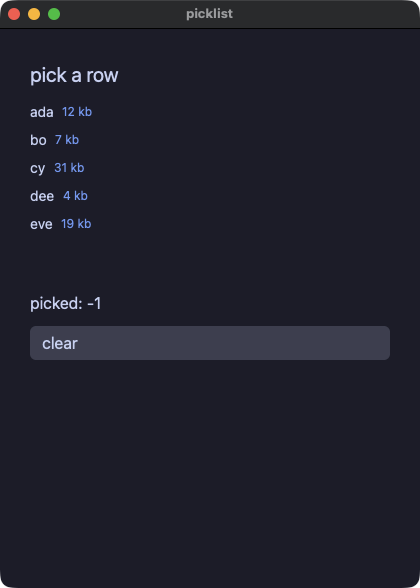
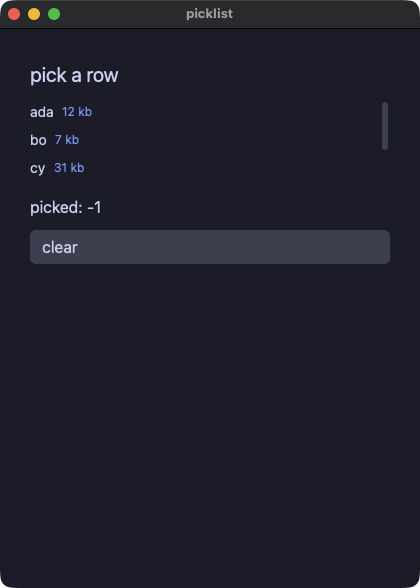
feat(list): show me this row
A scroll position is not the app's. Nothing in the built tree carries
one — the offset lives in the engine, keyed by element path, where a
Select's open panel lives — so a headless run has nothing to move, and
a scrolling step would be driving state no dump can see. Making the
position the app's instead would mean every viewport binds a number
and writes it back on every wheel tick, which is not a contract a
scroll bar has.

What an app does say is "show me this row", and that is a property
rather than a gesture. `scrollTo:` joins the dump when it is set, both
runs are held to it, and the engine obeys it when the number CHANGES:
obeying it every frame would drag the viewport back the moment anyone
scrolled off the row, so the ask is recorded beside the scroll handle
and -1 clears the record.

So the step stays unwritten and the property lands instead. The wheel
is outside the gate with the open panel and the caret — what is not in
the tree is not compared — and what the window does with an ask was
checked by watching a list open with its fifth row in view.

diff --git a/crates/pixie-engine-gpui/src/lib.rs b/crates/pixie-engine-gpui/src/lib.rs
@@ -424,6 +424,12 @@ struct ScrollState {
     drag: Rc<Cell<Option<(f32, f32)>>>,
     /// Pointer inside the thumb's (inflated) hit rect.
     hover: Rc<Cell<bool>>,
+    /// The row `scrollTo:` last asked for, `None` until one is. A
+    /// scroll position belongs to the person scrolling, so the list
+    /// obeys the app when the NUMBER CHANGES and never again: asking
+    /// for row 12 every frame would drag the viewport back the moment
+    /// anyone scrolled off it.
+    asked: Rc<Cell<Option<i64>>>,
 }
 
 /// Scrollbar metrics. cute_ui paints a 4 px thumb inset 2 px with a
@@ -727,6 +733,26 @@ fn style_box<E: gpui::Styled>(
 /// Create-or-reuse the scroll state for the viewport at `pass.path` and
 /// mark that path live for this pass's GC — `Element::TextField`'s
 /// editor lookup, one map over.
+/// Has the app just asked for a row this viewport has not obeyed yet?
+///
+/// `scrollTo:` is a sentence, not a position: the app says "show me
+/// this row" and the engine does it once. Answering true also RECORDS
+/// the ask, so the next frame — and every frame after it, while the
+/// number stands — leaves the viewport where the person scrolling put
+/// it. Putting the prop back to -1 clears the record, so the same row
+/// can be asked for again.
+fn take_ask(st: &ScrollState, scroll_to: i64) -> bool {
+    if scroll_to < 0 {
+        st.asked.set(None);
+        return false;
+    }
+    if st.asked.get() == Some(scroll_to) {
+        return false;
+    }
+    st.asked.set(Some(scroll_to));
+    true
+}
+
 fn scroll_state(
     scrolls: &mut HashMap<Vec<usize>, ScrollState>,
     pass: &mut RenderPass,
@@ -2421,6 +2447,7 @@ fn render_el_in<C: Component>(
             grow,
             selected,
             on_select,
+            scroll_to,
             children,
             lazy,
         } => {
@@ -2523,6 +2550,11 @@ fn render_el_in<C: Component>(
                 // `track_scroll` is genuinely out of reach.)
                 let ulh = gpui::UniformListScrollHandle::new();
                 ulh.0.borrow_mut().base_handle = st.handle.clone();
+                if take_ask(&st, *scroll_to) {
+                    // Non-strict: a row already in view moves nothing,
+                    // which is what "show me this one" means.
+                    ulh.scroll_to_item(*scroll_to as usize, gpui::ScrollStrategy::Top);
+                }
                 let list = list.track_scroll(&ulh);
                 let mut outer = div().relative();
                 if *grow > 0.0 {
@@ -2581,6 +2613,9 @@ fn render_el_in<C: Component>(
                 pass.next_id += 1;
                 let id = pass.next_id;
                 let st = scroll_state(scrolls, pass);
+                if take_ask(&st, *scroll_to) {
+                    st.handle.scroll_to_item(*scroll_to as usize);
+                }
                 let frame = frame.id(id).overflow_y_scroll().track_scroll(&st.handle);
                 let frame = if *grow > 0.0 {
                     frame.h_full()

diff --git a/crates/pixie-codegen/src/lib.rs b/crates/pixie-codegen/src/lib.rs
@@ -6703,6 +6703,14 @@ fn lower_element_inner(el: &Element, cx: &mut ViewCtx, ind: &str) -> Result<Stri
                 ),
                 None => "None".into(),
             };
+            // "Show me this row": the app's own sentence about a
+            // scroll position it does not otherwise own. `-1i64` asks
+            // for nothing, which is what every list said before the
+            // prop existed.
+            let scroll_to = match element_prop(el, "scrollTo") {
+                Some(v) => lower_view_int(v, cx, "scrollTo")?,
+                None => "-1i64".into(),
+            };
             if virtualized == "true" {
                 if let Some((binding, index, iter, child)) = single_repeater_of(el)? {
                     let lazy = lower_lazy_rows(binding, index, iter, child, cx, ind)?;
@@ -6714,6 +6722,7 @@ fn lower_element_inner(el: &Element, cx: &mut ViewCtx, ind: &str) -> Result<Stri
                          {ind}    grow: {grow},\n\
                          {ind}    selected: {selected},\n\
                          {ind}    on_select: {on_select},\n\
+                         {ind}    scroll_to: {scroll_to},\n\
                          {ind}    children: Vec::new(),\n\
                          {ind}    lazy: Some({lazy}),\n\
                          {ind}}}"
@@ -6722,7 +6731,7 @@ fn lower_element_inner(el: &Element, cx: &mut ViewCtx, ind: &str) -> Result<Stri
             }
             let children = lower_children(el, cx, ind)?;
             Ok(format!(
-                "Element::ListView {{ virtualized: {virtualized}, item_height: {item_height}, height: {height}, grow: {grow}, selected: {selected}, on_select: {on_select}, children: {children}, lazy: None }}"
+                "Element::ListView {{ virtualized: {virtualized}, item_height: {item_height}, height: {height}, grow: {grow}, selected: {selected}, on_select: {on_select}, scroll_to: {scroll_to}, children: {children}, lazy: None }}"
             ))
         }
         "ScrollView" => {
@@ -7412,7 +7421,15 @@ pub fn container_prop_keys(element: &str) -> &'static [&'static str] {
         ],
         "Split" => &["ratio", "vertical", "onChange"],
         "Canvas" => &["width", "height", "scale", "background", "palette"],
-        "ListView" => &["virtualized", "itemHeight", "height", "grow", "selected", "onSelect"],
+        "ListView" => &[
+            "virtualized",
+            "itemHeight",
+            "height",
+            "grow",
+            "selected",
+            "onSelect",
+            "scrollTo",
+        ],
         "ScrollView" => &["height"],
         "Modal" => &["open"],
         "Table" => &[

diff --git a/crates/pixie-interp/src/lib.rs b/crates/pixie-interp/src/lib.rs
@@ -2477,6 +2477,12 @@ fn build_element_inner(
                 None => -1,
             };
             let on_select = prop_of(el, "onSelect").map(|a| make_int_listener(a, env));
+            // The row the app asks to have in view, `-1` for none —
+            // codegen's `scrollTo:` arm, mirrored.
+            let scroll_to = match prop_of(el, "scrollTo") {
+                Some(v) => eval_expr(v, env, scope, w)?.as_int()?,
+                None => -1,
+            };
             if virtualized {
                 if let Some((binding, index, iter, child)) = single_repeater_of(el)? {
                     let lazy = build_lazy_rows(binding, index, iter, child, env, scope, w)?;
@@ -2487,6 +2493,7 @@ fn build_element_inner(
                         grow,
                         selected,
                         on_select,
+                        scroll_to,
                         children: Vec::new(),
                         lazy: Some(lazy),
                     });
@@ -2499,6 +2506,7 @@ fn build_element_inner(
                 grow,
                 selected,
                 on_select,
+                scroll_to,
                 children: build_children(el, env, scope, w)?,
                 lazy: None,
             })
@@ -3229,7 +3237,15 @@ pub fn container_prop_keys(element: &str) -> &'static [&'static str] {
         ],
         "Split" => &["ratio", "vertical", "onChange"],
         "Canvas" => &["width", "height", "scale", "background", "palette"],
-        "ListView" => &["virtualized", "itemHeight", "height", "grow", "selected", "onSelect"],
+        "ListView" => &[
+            "virtualized",
+            "itemHeight",
+            "height",
+            "grow",
+            "selected",
+            "onSelect",
+            "scrollTo",
+        ],
         "ScrollView" => &["height"],
         "Modal" => &["open"],
         "Table" => &[

diff --git a/crates/pixie-kernel/src/lib.rs b/crates/pixie-kernel/src/lib.rs
@@ -1345,6 +1345,12 @@ pub enum Element {
         /// when the app writes the new value back.
         selected: i64,
         on_select: Option<IntListener>,
+        /// The row the app asks to have in view, or `-1` for none.
+        /// A scroll POSITION is the engine's — nothing in this tree
+        /// carries one, so a headless run has none to move — but
+        /// "show me this row" is the app's own sentence, and the
+        /// engine obeys it when the number changes.
+        scroll_to: i64,
         children: Vec<Element>,
         lazy: Option<LazyRows>,
     },
@@ -2586,6 +2592,7 @@ impl Element {
                 height,
                 grow,
                 selected,
+                scroll_to,
                 children,
                 lazy,
                 ..
@@ -2606,6 +2613,7 @@ impl Element {
                     && *height == 0.0
                     && *grow == 0.0
                     && *selected < 0
+                    && *scroll_to < 0
                 {
                     format!("ListView[{}]", inner.join(", "))
                 } else {
@@ -2621,6 +2629,12 @@ impl Element {
                     // is in the dump — and only when a row is.
                     if *selected >= 0 {
                         props.push_str(&format!(", selected={selected}"));
+                    }
+                    // What the app asked to have in view, for the same
+                    // reason: it is a sentence the app said, and the
+                    // only part of scrolling either run can compare.
+                    if *scroll_to >= 0 {
+                        props.push_str(&format!(", scrollTo={scroll_to}"));
                     }
                     format!("ListView({props})[{}]", inner.join(", "))
                 }

diff --git a/crates/pixie-cli/tests/accept.rs b/crates/pixie-cli/tests/accept.rs
@@ -200,7 +200,15 @@ fn container_prop_allowlists_match_across_tiers() {
     // And the table is not vacuous.
     assert_eq!(
         pixie_codegen::container_prop_keys("ListView"),
-        ["virtualized", "itemHeight", "height", "grow", "selected", "onSelect"]
+        [
+            "virtualized",
+            "itemHeight",
+            "height",
+            "grow",
+            "selected",
+            "onSelect",
+            "scrollTo"
+        ]
     );
     // ScrollView takes the viewport height and nothing else; its
     // horizontal twin clips on width, so it takes no props at all.
@@ -468,9 +476,13 @@ fn tiers_agree_on_every_demo() {
             "click:open,input:hi,click:close",
         ),
         ("examples/layers/layers.pix", "click:bump,click:bump"),
+        // A long list, and the one sentence an app can say about
+        // scrolling: `scrollTo:` asks for a row. The position itself
+        // is the person's, so nothing in the tree carries it — what
+        // the dump compares is the ASK, which is the app's own number.
         (
             "examples/biglist/biglist.pix",
-            "click:fill,click:fill,click:clear,click:fill",
+            "click:fill,click:fill,click:bottom,dump,click:top,dump,click:clear,click:fill",
         ),
         // `hover:` puts the pointer on a point; the dump carries the
         // readout, so both tiers are held to one text for it.

diff --git a/crates/yokan/yokan_gate.py b/crates/yokan/yokan_gate.py
@@ -10953,7 +10953,22 @@ class Translator:
                     lines += [f"{pad}  onSelect: {{"] + [f"{pad}    {ln}" for ln in h9[1]] + [f"{pad}  }}"]
                 else:
                     lines.append(f"{pad}  onSelect: {h9}")
-            known = {"virtualized", "item_height", "height", "grow", "selected", "on_select"}
+            # "Show me this row." A scroll position is nobody's to
+            # write down — the app does not own one and neither run
+            # carries one — but the row to bring into view is a number
+            # the app holds, so it reads like `selected=`.
+            if "scroll_to" in kw:
+                v8 = kw["scroll_to"]
+                if isinstance(v8, ast.Constant):
+                    raise Untranslatable(
+                        v8,
+                        "scroll_to= is an int state or store-field read — the list "
+                        "obeys it when the number changes, so a literal would ask once "
+                        "and never again",
+                    )
+                lines.append(f"{pad}  scrollTo: {self._int_binding(v8, 'scroll_to=')}")
+            known = {"virtualized", "item_height", "height", "grow", "selected",
+                     "on_select", "scroll_to"}
             for k in kw:
                 if k not in known:
                     raise Untranslatable(kw[k], f"list_view() does not take `{k}=`")

diff --git a/crates/yokan/src/lib.rs b/crates/yokan/src/lib.rs
@@ -1884,8 +1884,8 @@ element_fn! {
     /// Virtualized rows: `row(i)` is called only for the visible range
     /// (pixie's LazyRows + gpui uniform_list — ~14 calls for 100k rows).
     native_height list_view
-    (count, row, item_height=24.0, height=0.0, virtualized=true, grow=0.0, selected=-1, on_select=None,)
-    [count: usize, row: Py<PyAny>, item_height: f64, height: f64, virtualized: bool, grow: f64, selected: i64, on_select: Option<Py<PyAny>>,]
+    (count, row, item_height=24.0, height=0.0, virtualized=true, grow=0.0, selected=-1, on_select=None, scroll_to=-1,)
+    [count: usize, row: Py<PyAny>, item_height: f64, height: f64, virtualized: bool, grow: f64, selected: i64, on_select: Option<Py<PyAny>>, scroll_to: i64,]
     {
         let build = py_row_builder(row);
         Element::ListView {
@@ -1895,6 +1895,7 @@ element_fn! {
             grow,
             selected,
             on_select: on_select.map(int_listener),
+            scroll_to,
             children: Vec::new(),
             lazy: Some(LazyRows { len: count, build }),
         }

diff --git a/crates/yokan/demo/picklist.py b/crates/yokan/demo/picklist.py
@@ -8,6 +8,11 @@ the marked row is data the app owns, and clicking a row asks the app
 to move the mark rather than moving it behind the app's back. The
 rows are whatever the builder returns, so a verification script picks
 one by what it says — the first text anywhere in the row.
+
+The viewport is three rows tall, so `scroll_to` has something to do:
+it is the row the app asks to have in view, and the list obeys it
+when the number changes — a scroll position belongs to whoever is
+scrolling, and this is the one sentence an app can say about it.
 """
 import os
 import sys
@@ -42,9 +47,10 @@ def view() -> None:
             len(names()),
             line,
             item_height=28.0,
-            height=180.0,
+            height=84.0,
             selected=picked(),
             on_select=choose,
+            scroll_to=picked(),
         )
         text(f"picked: {picked()}")
         button("clear", on_click=clear)

diff --git a/crates/pixie-capi/src/lib.rs b/crates/pixie-capi/src/lib.rs
@@ -778,8 +778,10 @@ fn materialize(b: &Bag, children: Vec<Element>) -> Element {
                 // nothing on this face can write one, and -1 is the
                 // value that says no row is marked. A table's selection
                 // does cross, because the table declares both keywords.
+                // `scrollTo:` is the dialect's for the same reason.
                 selected: -1,
                 on_select: None,
+                scroll_to: -1,
                 children: Vec::new(),
                 lazy: b.lazy(K_ROW, count),
             }

diff --git a/crates/yokan/DESIGN.md b/crates/yokan/DESIGN.md
@@ -3113,3 +3113,29 @@ has a popup; this vocabulary has no way to say so, and a role for one
 element is a change to `Role::parse`, the engine's map and the tour's
 list. The C face has no keyword for it either, so the three sibling
 languages cannot reach it and no generated table went stale.
+
+## The scrolling step that is not being added (2026-09-12)
+
+A scroll position is not the app's. Nothing in the built tree carries
+one — the offset lives in the engine, keyed by element path, exactly
+where a Select's open panel lives — so a headless run has nothing to
+move, and a `scroll:` step would be driving state no dump can see.
+Making the position the app's instead would mean every scrolling
+viewport binds a number and writes it back on every wheel tick, which
+is not a contract a scroll bar has or an app wants.
+
+What an app does legitimately say is "show me this row", and that is a
+property rather than a gesture. `scrollTo:` on a list is that sentence:
+it joins the dump when it is set, both runs are held to it, and the
+engine obeys it when the NUMBER CHANGES. Obeying it every frame would
+drag the viewport back the moment anyone scrolled off the row, so the
+engine records the ask beside the scroll handle; putting the prop back
+to -1 clears the record, which is how the same row is asked for twice.
+
+So the step is refused by design and the property lands instead. The
+wheel stays outside the gate with the open panel and the caret — what
+is not in the tree is not compared — and what the window does with an
+ask is checked by looking at it. The C face declares no keyword for
+it, so the three sibling languages are unaffected, and a table has no
+`scrollTo:` yet either: it shares the machinery and would be a second
+row in the same tables.

diff --git a/website/docs/demos.md b/website/docs/demos.md
@@ -4846,7 +4846,7 @@ shows a finished transcript — its launch state is an empty table.
 
 
 
-#### picklist — list_view with a marked row: `selected=` / `on_select`, the pair a table takes, and a script picks a row by what it says
+#### picklist — list_view with a marked row: `selected=` / `on_select`, the pair a table takes, a script picking a row by what it says, and `scroll_to` bringing the picked row into view
 <img src="images/demos/picklist.png" width="360">
 
 <!-- source -->
@@ -4863,6 +4863,11 @@ shows a finished transcript — its launch state is an empty table.
     to move the mark rather than moving it behind the app's back. The
     rows are whatever the builder returns, so a verification script picks
     one by what it says — the first text anywhere in the row.
+
+    The viewport is three rows tall, so `scroll_to` has something to do:
+    it is the row the app asks to have in view, and the list obeys it
+    when the number changes — a scroll position belongs to whoever is
+    scrolling, and this is the one sentence an app can say about it.
     """
     import os
     import sys
@@ -4897,9 +4902,10 @@ shows a finished transcript — its launch state is an empty table.
                 len(names()),
                 line,
                 item_height=28.0,
-                height=180.0,
+                height=84.0,
                 selected=picked(),
                 on_select=choose,
+                scroll_to=picked(),
             )
             text(f"picked: {picked()}")
             button("clear", on_click=clear)
